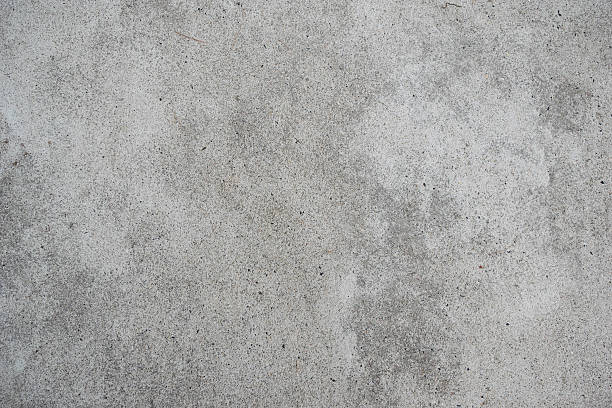
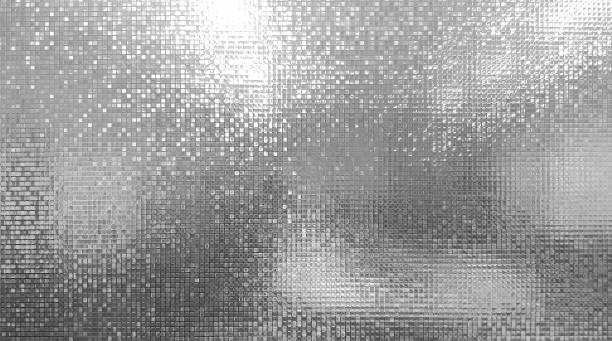
smol update

diff --git a/src/main.cpp b/src/main.cpp
@@ -678,8 +678,6 @@ unsigned int loadTexture(const char* path) {
 
 // ============================================================
 // Sphere VAO (UV sphere)
-// Positions + smooth normals (radial) + UV coordinates
-// Used for: textured sphere showing Phong highlights + image texture
 // ============================================================
 unsigned int createSphereVAO(int& outVertexCount) {
     const int stacks = 32;
@@ -940,8 +938,8 @@ void setupLighting(Shader& shader)
         std::string base = "windowPositions[" + std::to_string(i) + "]";
         shader.setVec3(base, glm::vec3(0.0f, 2.5f, z));
     }
+
     // Unified Sun Direction (from window towards parking lot)
-    // Windows are on negative X wall, so light direction is positive X and down/forward
     glm::vec3 sunDir = glm::normalize(glm::vec3(1.0f, -0.6f, 0.4f)); 
     shader.setVec3("sunDirection", sunDir);
     
